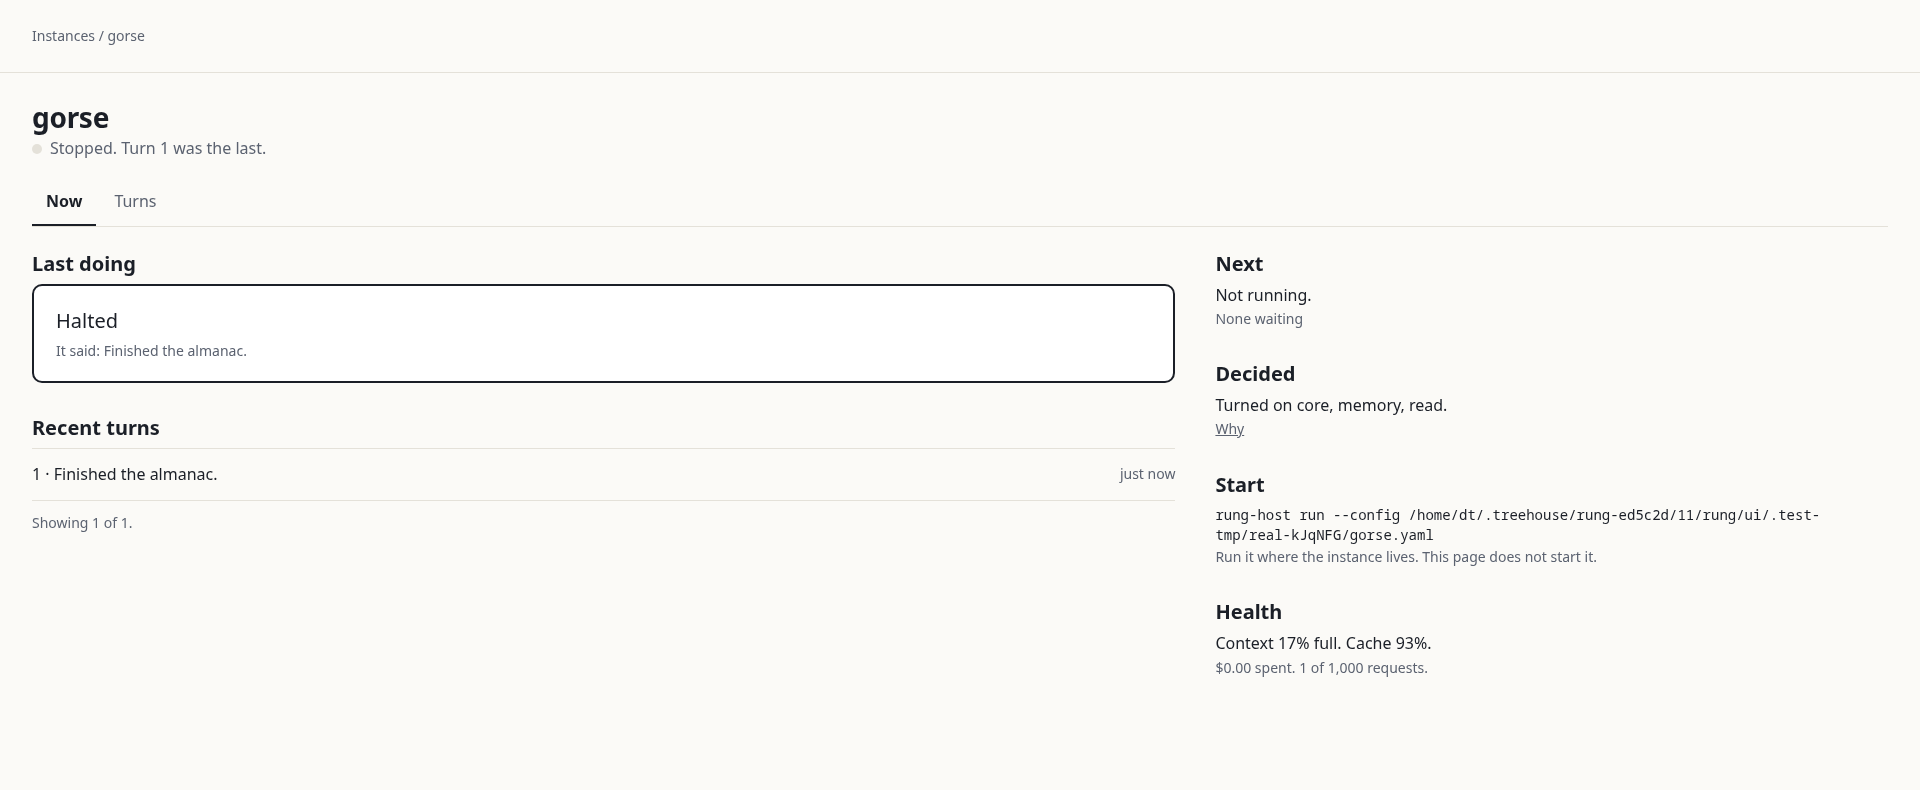
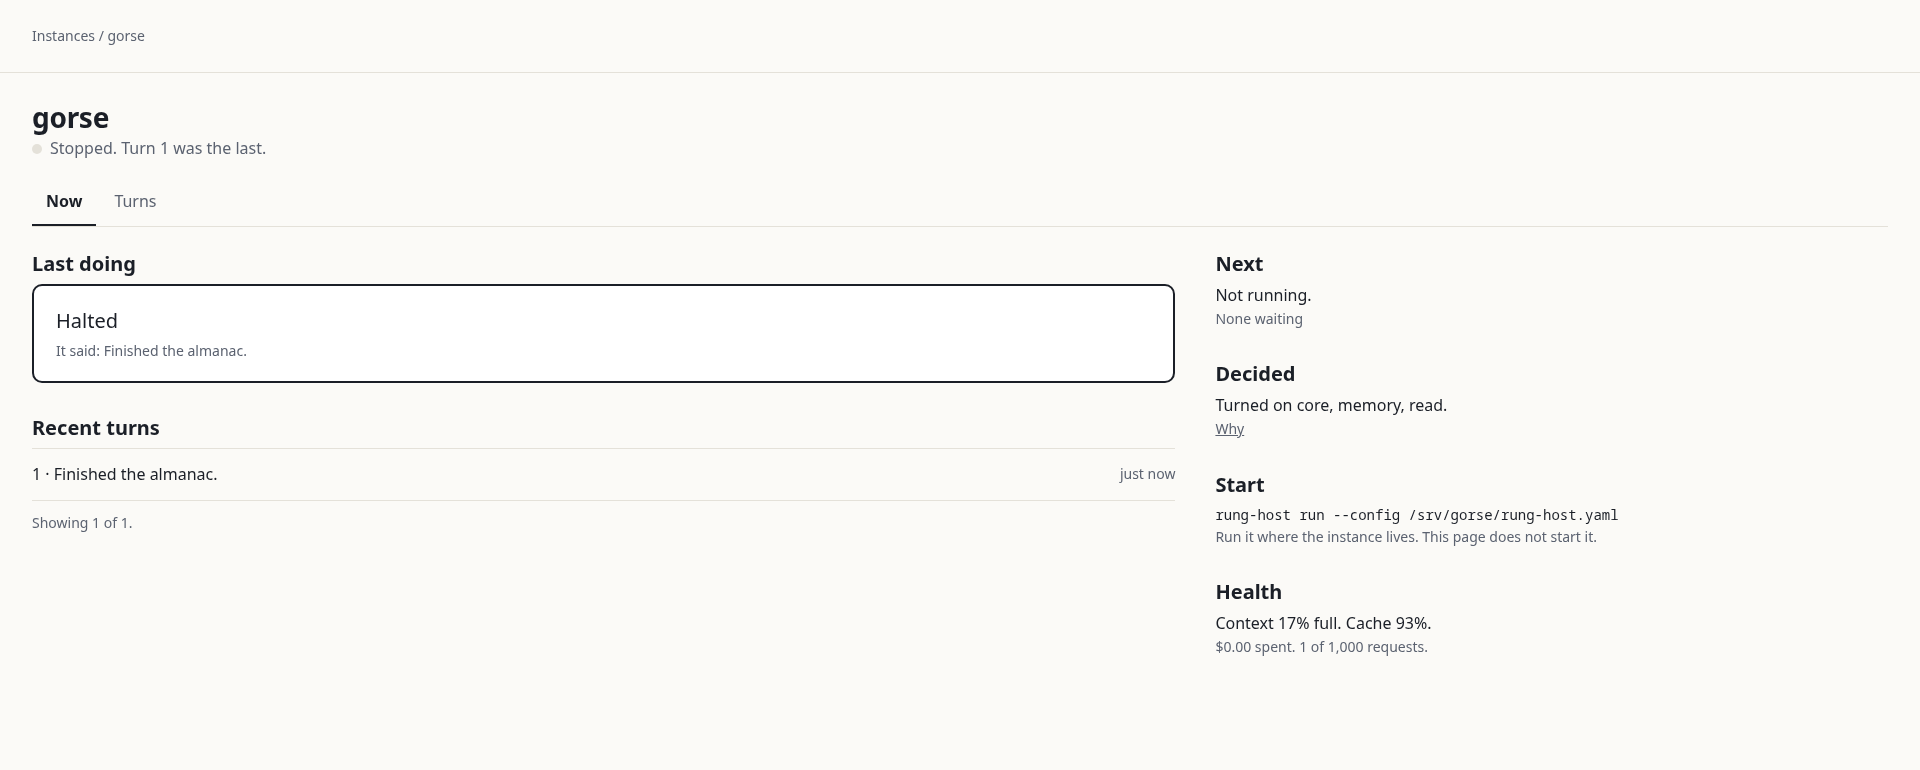
fix(ui): no local path in a committed capture
The start command in the real-gateway captures showed where this machine keeps its
files, because the suite's registry entry named a config file in a scratch directory.
The entry now names an invented, neutral path (the gateway only builds the command
from it), and the six real-gateway captures are retaken. Every committed capture
was read with OCR for a home path, the user name, the host name and an address: none
is left.

diff --git a/ui/mock/real.ts b/ui/mock/real.ts
@@ -43,8 +43,9 @@ export async function startReal(opts: RealOptions = {}): Promise<Target & { root
       mkdirSync(join(dir, "record"), { recursive: true });
       const lines = synthetic(Date.now()).find((i) => i.id === id)!.lines;
       writeFileSync(join(dir, "record", "seg-00000001.ndjson"), lines.map((l) => JSON.stringify(l)).join("\n") + "\n");
-      const cfg = join(root, `${id}.yaml`);
-      if (config) writeFileSync(cfg, "engine:\n  kind: mock\n");
+      // The entry names a config file by an invented, neutral path: the page shows the start command it gives, and a capture of it must not
+      // show where this machine keeps its files. The gateway only needs the path to build the command.
+      const cfg = `/srv/${id}/rung-host.yaml`;
       writeFileSync(join(root, "reg", `${id}.json`), JSON.stringify({ schema: 1, id, name: id, state_dir: dir, config: config ? cfg : null, workspace: join(root, "ws"), address: null, pid: 1, started: Date.now(), version: "contract" }));
     }
     writeFileSync(join(root, "reg", "bad.json"), "{ this is not json");
